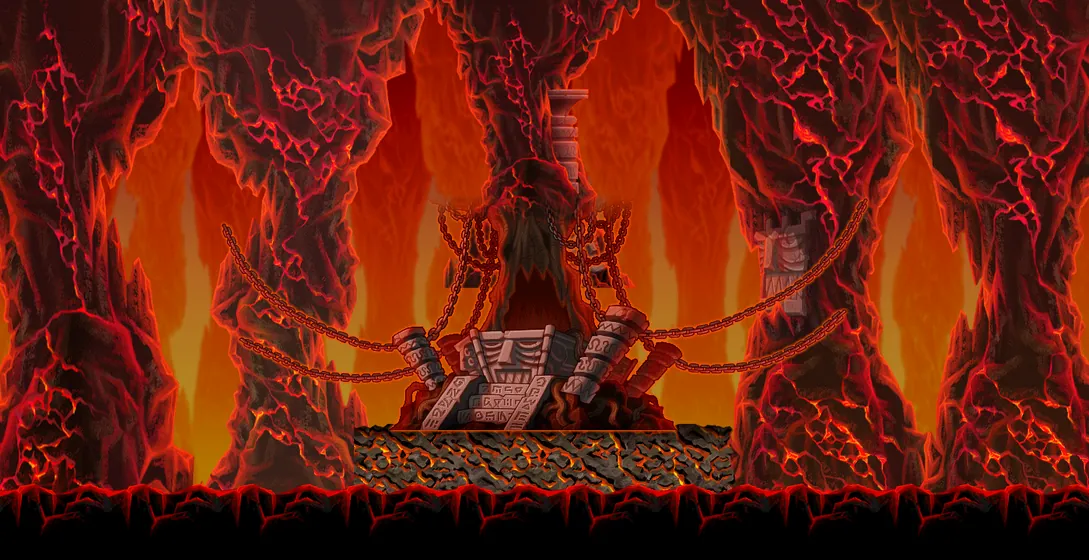
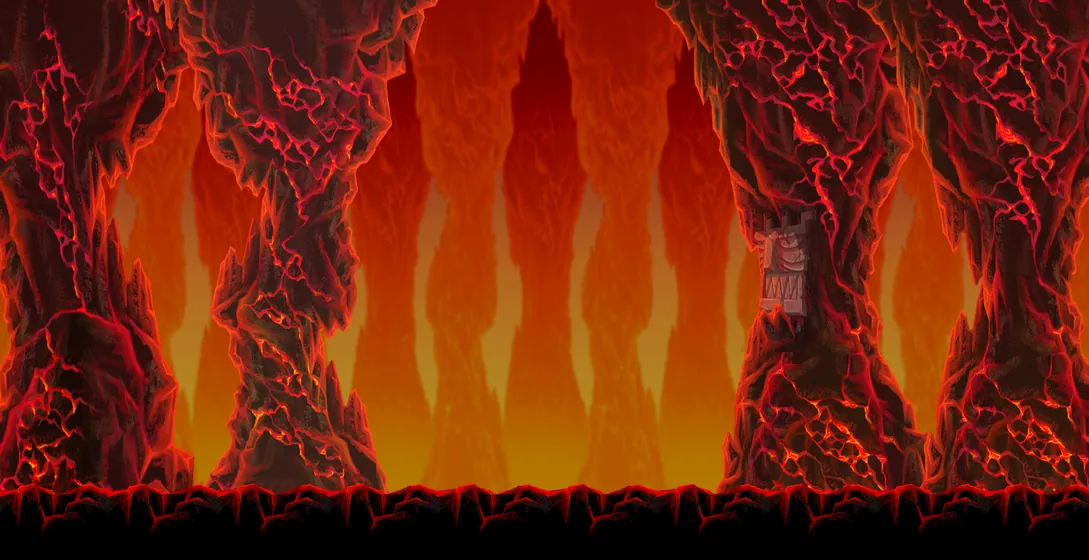
Duel: Zakum's altar is its own layer standing on the platform tile, column rising out of view

Changed region(s): [[0.2185, 0.0, 0.7805, 0.8804], [0.7493, 0.3643, 0.8118, 0.4857], [0.1873, 0.3946, 0.2185, 0.4554]]

diff --git a/duel.css b/duel.css
@@ -49,10 +49,15 @@
 .bd-arena.sd::after { content: ""; position: absolute; inset: 0; background: rgba(255, 90, 20, .2); pointer-events: none; z-index: 1; }
 /* maps: the real background art (Map.wz back layers) + one platform from the same map */
 .bd-arena.m-elnath { background-color: #b9bfe0; background-image: url(media/duel/bg_elnath.webp); }
-.bd-arena.m-zakum  { background-color: #3a0a06; background-image: url(media/duel/bg_zakum.webp?v=5); }
+.bd-arena.m-zakum  { background-color: #3a0a06; background-image: url(media/duel/bg_zakum.webp?v=6); }
 .bd-arena.m-ludi   { background-color: #3651d0; background-image: url(media/duel/bg_ludi.webp); }
 .bd-arena.m-sleepy { background-color: #1c1a12; background-image: url(media/duel/bg_sleepy.webp); }
 .bd-plat { position: absolute; left: 50%; transform: translateX(-50%); z-index: 1; pointer-events: none; max-width: none; }
+/* Zakum's altar stands on the platform (its bottom edge is the altar's base), its rock column runs up out of view */
+.bd-deco { display: none; position: absolute; left: 50%; transform: translateX(-50%); bottom: calc(var(--gl) - 3px); width: 56%; max-width: none;
+  z-index: 1; pointer-events: none; }
+.bd-arena.m-zakum .bd-deco { display: block; }
+@media (max-width: 560px) { .bd-deco { width: 66%; } }
 .bd-arena.m-zakum .bd-tag, .bd-arena.m-ludi .bd-tag, .bd-arena.m-sleepy .bd-tag { background: rgba(0,0,0,.6); }
 .bd-arena .bd-mp b, .bd-arena .bd-buffs { color: #fff; text-shadow: 0 1px 2px #000; }
 .bd-f { position: absolute; bottom: var(--gl); left: 27%; width: 0; height: 0; z-index: 2; }

diff --git a/index.html b/index.html
@@ -9,7 +9,7 @@
 <link href="https://fonts.googleapis.com/css2?family=Ubuntu:wght@500;700&display=swap" rel="stylesheet">
 <link rel="stylesheet" href="draw.css?v=13">
 <link rel="stylesheet" href="ww.css?v=1">
-<link rel="stylesheet" href="duel.css?v=22">
+<link rel="stylesheet" href="duel.css?v=24">
 <link rel="stylesheet" href="extras.css?v=46">
 <style>
 :root {
@@ -440,6 +440,7 @@ button:focus:not(:focus-visible), a:focus:not(:focus-visible) { outline: none; }
     <div class="bd-top"><div id="bdClock"></div><div class="bd-phase" id="bdPhase"></div><span class="bd-stake" id="bdStake"></span><button class="sk-small" id="bdLeave">Leave</button></div>
     <div class="bd-arena" id="bdArena">
       <img class="bd-plat" id="bdPlat" alt="">
+      <img class="bd-deco" src="media/duel/zakum_altar.webp" alt="">
       <div class="bd-f bd-l" id="bdF1"><div class="bd-body"><img class="bd-sp" alt=""></div><div class="bd-tag"></div>
         <div class="bd-bars"><div class="bd-hp"><i></i><b></b></div><div class="bd-mp"></div><div class="bd-buffs"></div></div><div class="bd-think" hidden></div></div>
       <div class="bd-f bd-r" id="bdF2"><div class="bd-body"><img class="bd-sp" alt=""></div><div class="bd-tag"></div>
